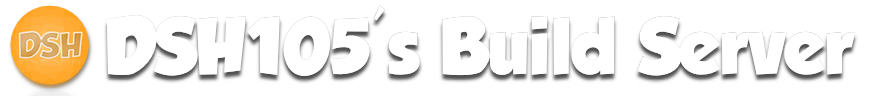
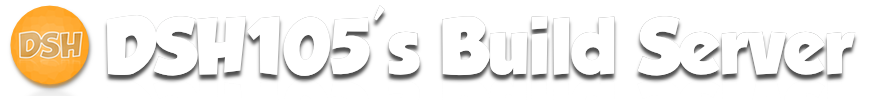
Show it who's boss

diff --git a/master.css b/master.css
@@ -85,9 +85,10 @@ a:hover {
 #jenkins-home-link {
     display: block;
     background: url("img/header.png") 0 0 no-repeat;
-    margin-top: -16px;
-    height: 64px;
-    width: 354px;
+    background-size: 100%;
+    margin-top: -10px;
+    height: 58px;
+    width: 516px;
 }
 
 .model-link.inside {
